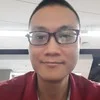
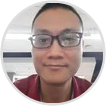
Done header

diff --git a/home/index.html b/home/index.html
@@ -20,7 +20,7 @@
 
 						<!-- Logo -->
 						<h1>
-							<a href="index.html" id="logo">
+							<a href="index.html" id="logo" style="color: aquamarine;">
 								David's developer profile
 							</a>
 						</h1>
@@ -43,12 +43,12 @@
 
 						<div class="col-3 col-6-medium col-12-small myCol">
 							<a href="#" class=""><img src="images/me.png" alt=""
-									style="width: 80px !important; height: 80px !important; border-radius: 50%;" /></a>
+									style="width: 70px !important; height: 70px !important; border-radius: 50%;" /></a>
 
 						</div>
 
 						<div class="col-3 col-6-medium col-12-small myCol"
-							style="max-width: 70%; text-align: left; font-size: 1.2em; line-height: 1.2em;">
+							style="max-width: 70%; text-align: left; font-size: 1.2em; line-height: 1.2em; margin-top: 9px;">
 							I'm a game developer with 6 years of experience. Hire me on
 							<a href="https://www.upwork.com/freelancers/~01c2bba1060871bbe9" target="_blank">
 								<img src="images/upworkLogo.png"

diff --git a/home/assets/css/main.css b/home/assets/css/main.css
@@ -1673,7 +1673,7 @@ section:last-child,
 #banner {
 	border-top: solid 1px #222628;
 	box-shadow: inset 0px 1px 0px 0px #3e484a;
-	padding: 35px 0 35px 0;
+	padding: 15px 0 5px 0;
 	color: #fff;
 }
 
